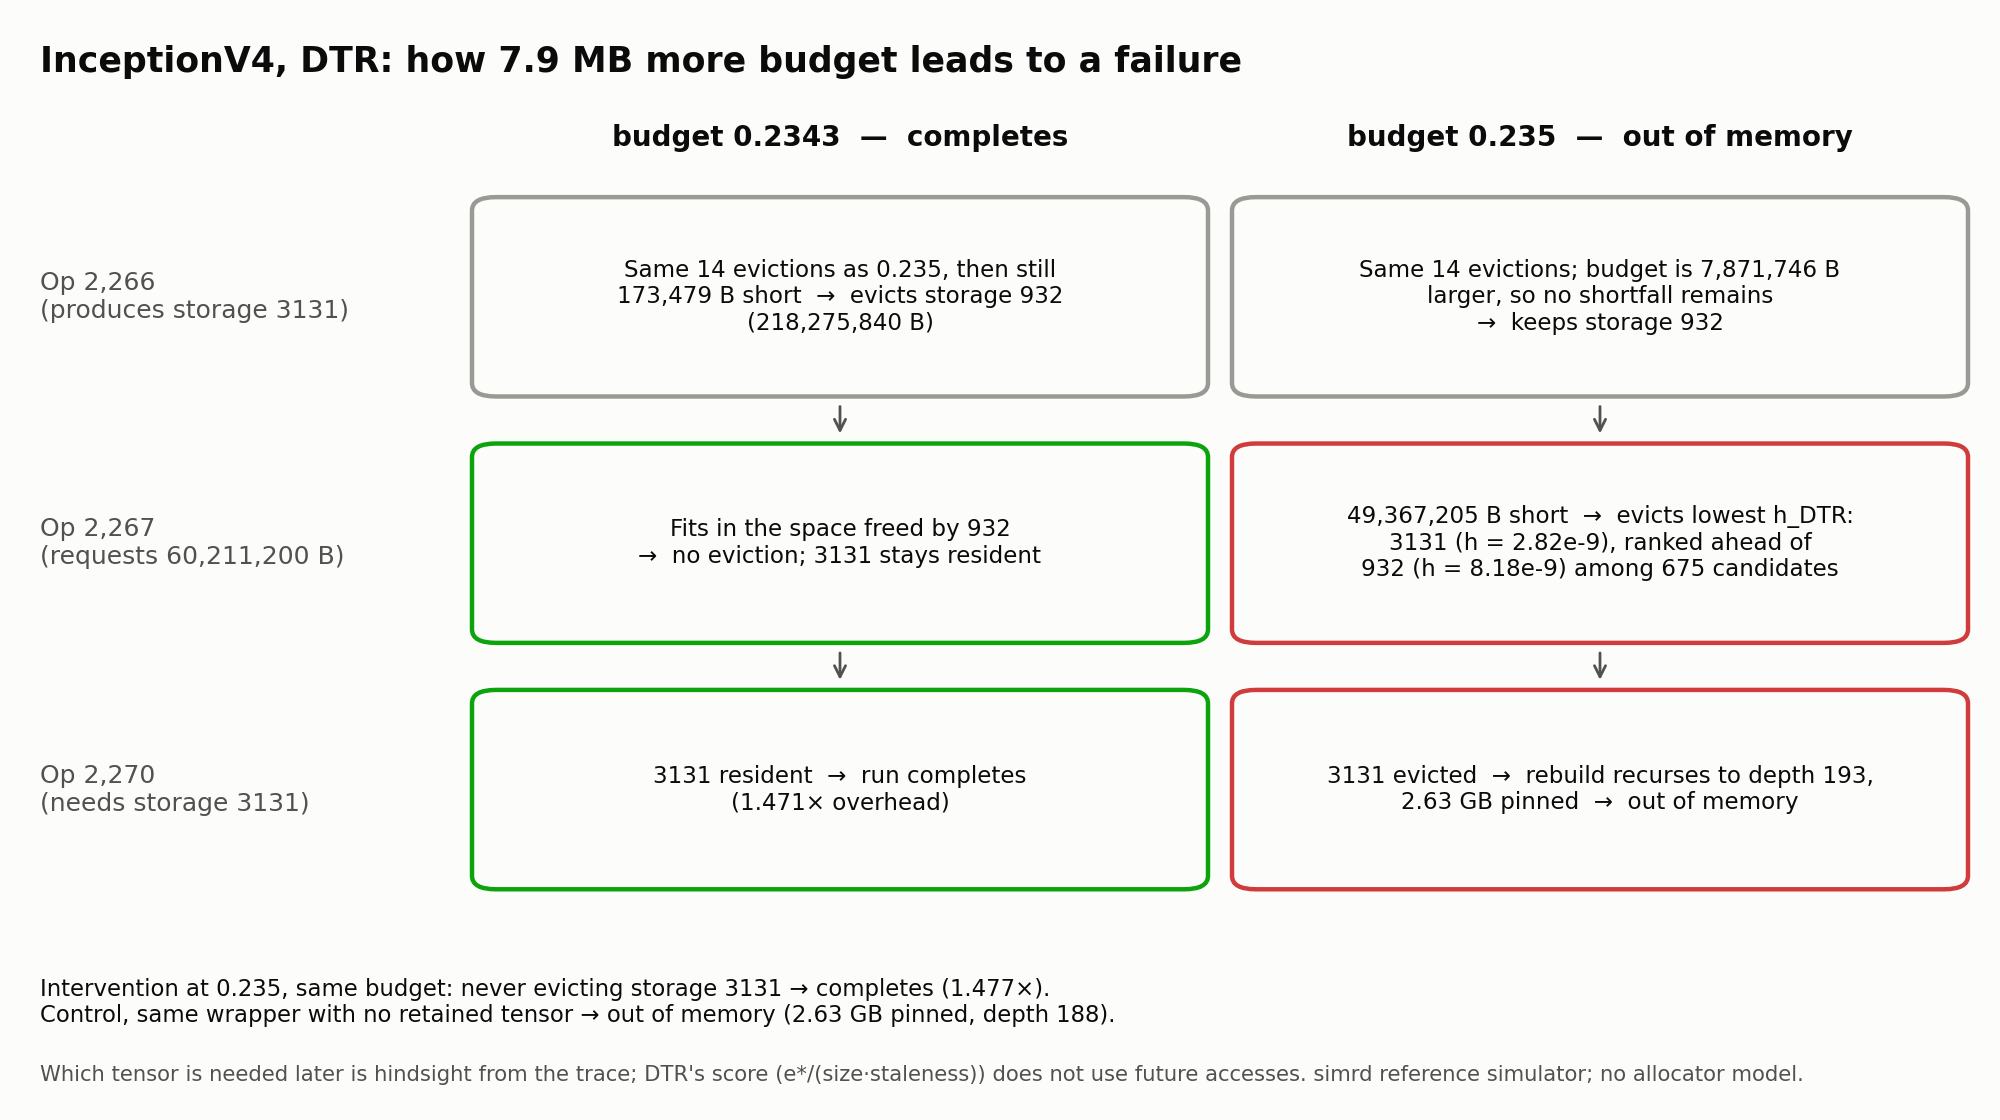
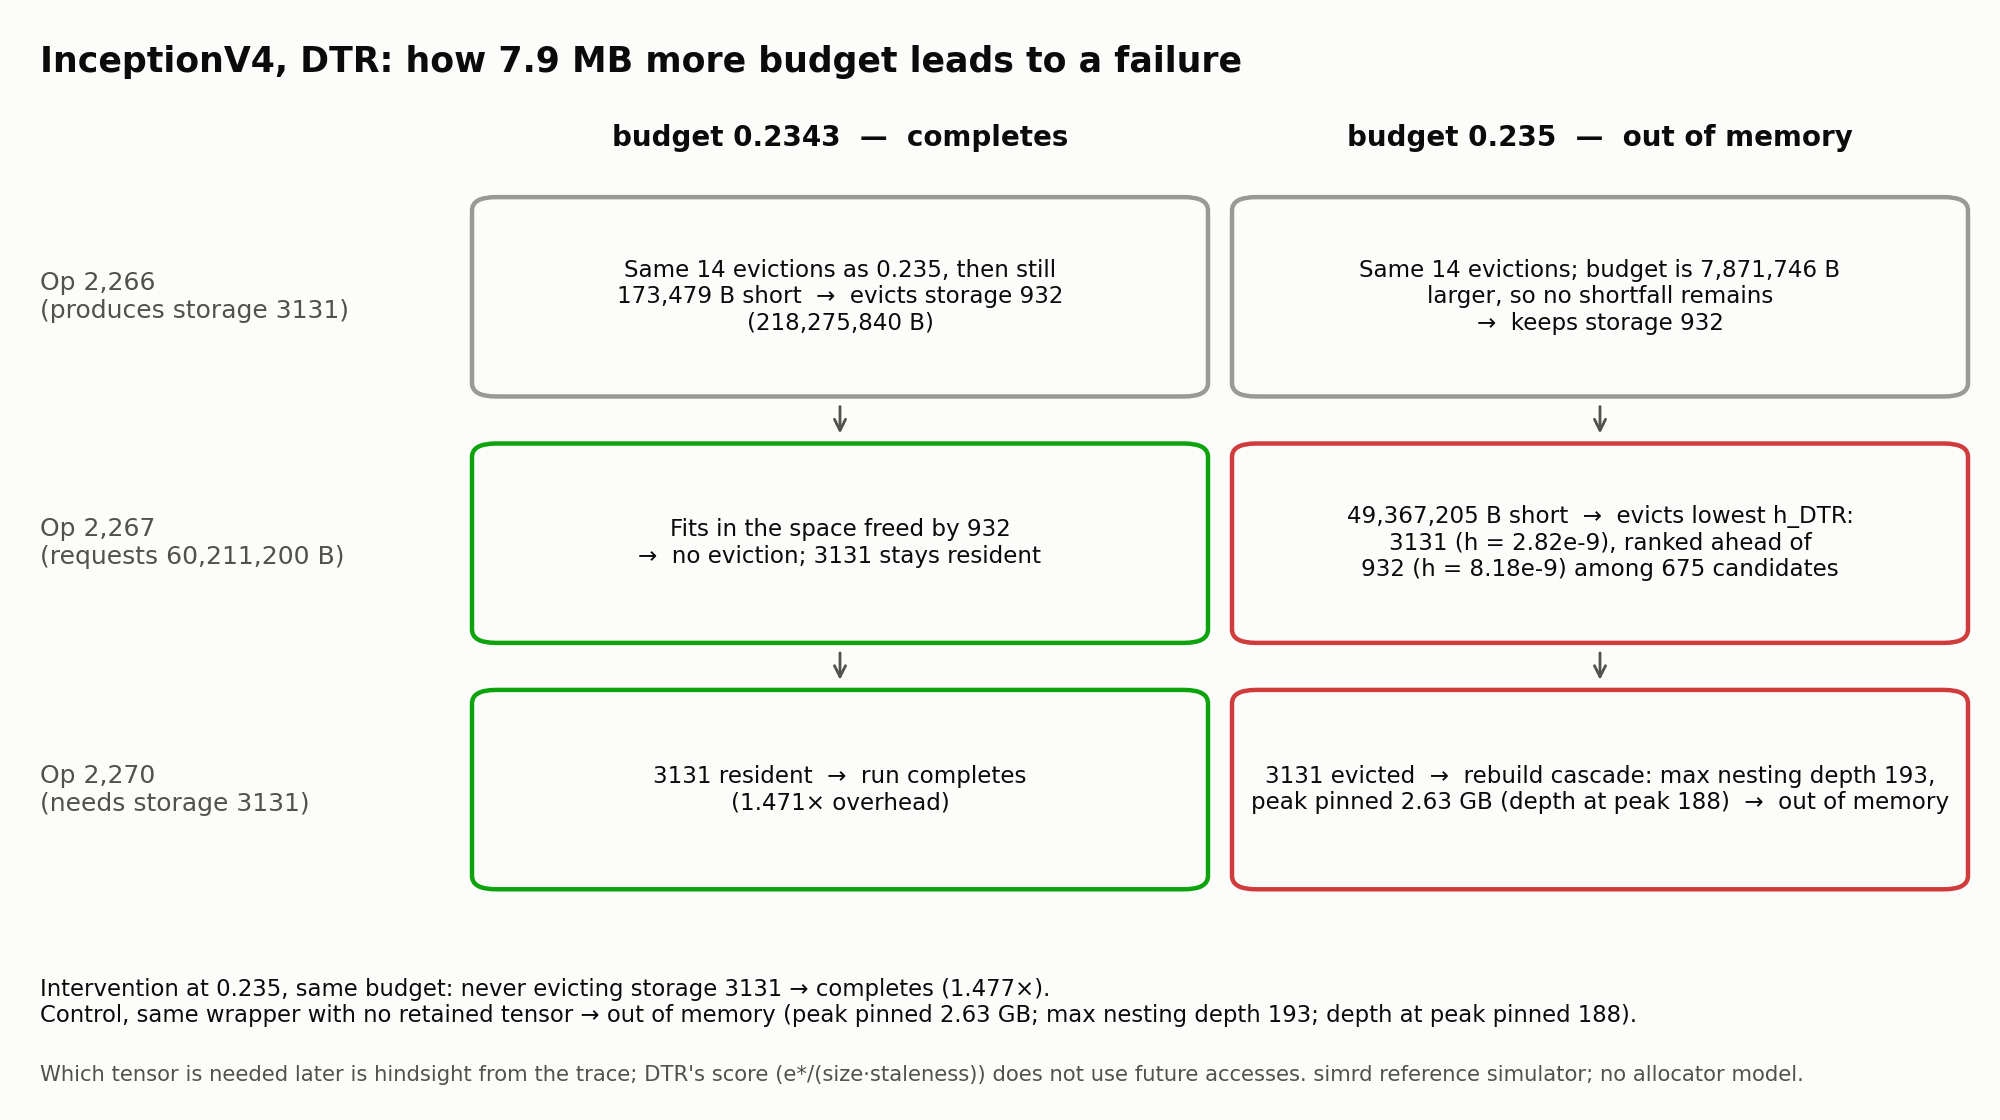
Worked example: four precision edits (causal wording, depth labels, measured counts, 8 MiB footnote); Methods draft
Claude-Session: https://claude.ai/code/session_01JdWLBYNLdwDqfgoTaPBem6

Changed region(s): [[0.62, 0.6875, 0.961, 0.7188], [0.403, 0.875, 0.558, 0.9375], [0.775, 0.875, 0.806, 0.9062]]

diff --git a/figures/make_mechanism_figure.py b/figures/make_mechanism_figure.py
@@ -18,7 +18,7 @@ rows = [
      ('49,367,205 B short  →  evicts lowest h_DTR:\n3131 (h = 2.82e-9), ranked ahead of\n932 (h = 8.18e-9) among 675 candidates', CRIT)),
     ('Op 2,270\n(needs storage 3131)',
      ('3131 resident  →  run completes\n(1.471× overhead)', GOOD),
-     ('3131 evicted  →  rebuild recurses to depth 193,\n2.63 GB pinned  →  out of memory', CRIT)),
+     ('3131 evicted  →  rebuild cascade: max nesting depth 193,\npeak pinned 2.63 GB (depth at peak 188)  →  out of memory', CRIT)),
 ]
 
 fig = plt.figure(figsize=(10, 5.6), dpi=200, facecolor=SURF)
@@ -41,7 +41,7 @@ for i, (label, left, right) in enumerate(rows):
             ax.annotate('', (x + w / 2, y - gap + 0.8), (x + w / 2, y - 0.8),
                         arrowprops=dict(arrowstyle='->', color=INK2, lw=1))
 ax.text(2, 10.5, 'Intervention at 0.235, same budget: never evicting storage 3131 → completes (1.477×).\n'
-        'Control, same wrapper with no retained tensor → out of memory (2.63 GB pinned, depth 188).',
+        'Control, same wrapper with no retained tensor → out of memory (peak pinned 2.63 GB; max nesting depth 193; depth at peak pinned 188).',
         fontsize=8.2, color=INK, va='center')
 ax.text(2, 3.5, 'Which tensor is needed later is hindsight from the trace; DTR\'s score (e*/(size·staleness)) '
         'does not use future accesses. simrd reference simulator; no allocator model.',

diff --git a/paper/methods.md b/paper/methods.md
@@ -1,0 +1,90 @@
+# 3. Method
+
+*Draft, 2026-09-28. Details and the dated deviation log are in PROTOCOL.md; every execution
+is listed in results/EVIDENCE_runs.csv.*
+
+## 3.1 Simulator, traces and budgets
+All experiments use DTR's reference simulator, simrd (commit eff53cc4804cc7d6246a6e5086861ce2b846f62b),
+with its `RuntimeV2EagerOptimized` runtime and the public operator traces released with DTR.
+simrd models tensor sizes, operator compute costs, eviction and rematerialization; it has no
+allocator or fragmentation model, so results concern the eviction policy as simulated, not a
+GPU runtime.
+
+We use ResNet-32 as a development trace (all exploratory tuning happened on it) and six
+traces as confirmatory: DenseNet, InceptionV4, Transformer, U-Net, TreeLSTM and an unrolled
+GAN. An LSTM trace is reported separately. A budget is a fraction r of the trace's
+unconstrained peak memory, budget = ⌊r · peak⌋ bytes, where peak is measured by running the
+trace with no memory limit; this is the same form as simrd's own evaluation scripts.
+
+## 3.2 Policies
+DTR evicts the storage with the lowest score h = e* / (size · staleness), where e* is the
+compute of the storage and its evicted neighbourhood. We compare it with two variants fixed
+on the development trace before any confirmatory run: *NbhdPenalty*, which multiplies h by
+(1 + b · |evicted neighbourhood|) with b = 0.25, and *TwoPhase*, which keeps candidates large
+enough to cover the current shortfall and ranks them by cost over staleness. Three baselines
+were added before they ran, after the first 43 Stage A points (all DenseNet) were seen: DTR's h_e* variant, a
+Coop-inspired cost/staleness score, and a T-Control-inspired policy that locks tensors of
+high betweenness centrality.
+
+## 3.3 Instrumentation and checks against it
+Our runtime subclasses simrd's runtime without changing any decision. It records, at every
+allocation check, the *pinned* bytes (resident bytes not in the evictable pool) and the
+rematerialization nesting depth. We report two depth measures and never merge them: *depth at
+peak pinned memory* (the nesting depth when pinned bytes peaked) and *maximum nesting depth*
+(the deepest nesting anywhere in the run). Two checks guard against instrumentation effects:
+the instrumented runtime reproduces the numbers of our earlier, lighter runtime exactly at
+every checked point, and key points
+are rerun with unmodified simrd (runtime and DTR heuristic straight from the simrd commit,
+no code of ours on the simulation path).
+
+## 3.4 Outcomes
+Each run ends in one of four states: *ok*; *OOM*, when an allocation cannot be satisfied
+after the evictable pool is empty; *thrashed*, when rematerialization compute exceeds 60× the
+model's compute; or *timeout*, when a run exceeds 20 minutes of wall time. Timeouts are
+unresolved and are counted neither as successes nor as failures. Every point runs in its own
+process. simrd is deterministic; we test this with repeats instead of assuming it.
+
+## 3.5 Protocol
+The sweep was fixed in writing before its results existed, and changed only through dated
+amendments (PROTOCOL.md).
+- **Stage A:** every trace and policy on a 0.01 grid from 0.05 to 0.60; three repeats at a
+  random 10% of budgets.
+- **Stage C:** seeded interior samples inside every 0.01 interval (two per interval below
+  0.30, one above). Added before any Stage A result existed on a trace other than DenseNet
+  or below budget 0.19, because a grid misses a failure region lying wholly inside one
+  interval.
+- **Stage B:** 0.001 refinement of every interval where adjacent points change status or
+  overhead by more than 25%, or where a Stage C point disagrees with both neighbours.
+- **Stages D and E:** confirmation of InceptionV4 points. Specified before they ran, after the
+  earlier stages had shown the region: three repeats of DTR plus one run of unmodified simrd
+  per point, and a claim rule that a region counts as confirmed only if every completed
+  repeat agrees and unmodified simrd gives the same outcome.
+
+Runs executed on a 2-vCPU cloud container, natively on a Windows laptop, and (11 early
+Stage A points) in a Linux VM on the same laptop. Interrupted runs
+(host sleep, a killed process, or a mistaken second launcher) are kept in the evidence table
+with their exclusion reason and rerun; they never count as outcomes.
+
+## 3.6 Feasibility holes and what we count
+A *feasibility hole* is a budget at which a policy fails (OOM or thrashed) although both a
+smaller and a larger budget complete. Because budgets are sampled, we report three separate
+quantities: sampled failing budgets; distinct failure regions supported by samples; and edge
+brackets [last completing sample, first failing sample], with unresolved points marked. We do
+not report hole widths, and a run of failing samples does not establish that every budget
+between them fails.
+
+## 3.7 Hypotheses and claim rules
+For each confirmatory trace, a policy is compared with DTR on H1, no more failed budgets above
+its first success; H2, matched-budget geometric-mean overhead ratio ≤ 1.05; and H3, a stable
+floor no higher than DTR's. A policy "generalises" only if H1 and H2 hold on at least five of
+six traces.
+
+## 3.8 Exploratory analyses
+The divergence trace, the per-decision probe and the retention intervention (Section 5) were
+specified before execution, after earlier results were observed, and are reported as
+exploratory. The divergence trace logs every eviction and rematerialization in two runs. The
+probe records, for every eviction decision in a window of operators, the request, shortfall,
+candidates and score components. The retention intervention never offers one named storage to
+the policy as an eviction candidate; its bytes stay resident under the same budget, and a
+control run with the same code path and no retained storage checks that the wrapper changes
+nothing.

diff --git a/paper/worked_example.md b/paper/worked_example.md
@@ -16,8 +16,9 @@ after earlier results were observed, and are exploratory.
 choose different victims at eviction 13 (operator 945 of about 2,300). From there to operator
 2,269 they do the same amount of work: 1,657 evictions each, and 335 versus 334
 rematerializations. Per-operator pinned memory and recursion depth are identical over that
-span. The failure is therefore not a slow accumulation; all of the failing run's extra work
-(7,342 evictions and 6,143 rematerializations) happens inside a single operator, 2,270.
+span. Their histories already differ, but before operator 2,270 they have equal eviction
+counts and nearly equal rematerialization counts. The failing run's extra work (7,342
+evictions and 6,143 rematerializations) happens inside a single operator, 2,270.
 
 **Allocation threshold (operator 2,266).** Operator 2,266 produces storage 3131
 (247,775,232 B). To make room, both runs make the same 14 evictions in the same order. The
@@ -32,9 +33,8 @@ smaller budget had evicted one operator earlier. DTR evicts 3131.
 
 **Failure cascade (operator 2,270).** Operator 2,270 reads storage 3131. At 0.2343 it is
 resident and the run completes. At 0.235 it must be rebuilt, which requires rebuilding its
-own evicted ancestors in turn: the rematerialization chain reaches a nesting depth of 193,
-pinned memory reaches 2.63 GB (depth 188 at that peak), and the evictable pool empties with
-a request of 8,388,608 B still unmet. That storage 3131 is needed three operators after its
+own evicted ancestors in turn: maximum nesting depth reaches 193, and pinned memory peaks at
+2.63 GB (depth at peak pinned memory: 188) before the evictable pool empties.¹ That storage 3131 is needed three operators after its
 eviction is hindsight from the trace; DTR's score does not use future accesses and could not
 have known it.
 
@@ -42,8 +42,11 @@ have known it.
 eviction candidate. Its bytes remain resident and count against the same budget; no limit is
 relaxed. The run completes with 1.477× overhead, 0.99 GB peak pinned memory and a maximum
 nesting depth of 30, matching the successful smaller budget. A control using the same code
-path with no retained tensor reproduces the original failure exactly (2.63 GB, depth 188).
-This supports storage 3131's eviction as a necessary step in this failure. It is not a fix:
+path with no retained tensor reproduces the original failure exactly (2.63 GB peak pinned;
+maximum nesting depth 193; depth at peak pinned memory 188). Preventing storage 3131's
+eviction prevents OOM in this execution under the same budget, supporting its causal
+involvement; retaining it also changes the rest of the execution, so this is not a claim
+that nothing else matters. It is not a fix:
 retaining a tensor requires knowing in advance which one will be needed.
 
 **Summary.** In this execution, the extra 7.9 MB avoids one eviction at operator 2,266. That
@@ -54,11 +57,16 @@ did not give the same execution more room; it produced a different execution.
 **Supporting case: ResNet-32 (development trace).** The failing operator at budget 0.104
 (operator 471) needs storage 612, which the 0.104 run evicted at operator 466 and the 0.101 run
 never evicted. Retaining 612 at 0.104 turns the failure into a completion (2.24×), and the
-control reproduces the failure (0.89 GB pinned, depth 118 at that peak; maximum nesting 124).
+control reproduces the failure (0.89 GB peak pinned; depth at peak pinned memory 118;
+maximum nesting depth 124).
 The larger budget likewise carries more data into operator 466 (802 MB versus 667 MB).
 However, our probe reports unchanged memory-in-use across consecutive evictions within
 operator 466, which we have not yet explained; we therefore report ResNet-32 only as a second
 instance of the retention result, not as a byte-level account.
+
+¹ During the cascade, an allocation of 8,388,608 bytes (8 MiB) could not be satisfied; the
+run was 130,137 bytes over budget at that point. This is a different request from operator
+2,267's 60,211,200 bytes.
 
 *Figure 5 (figures/fig_mechanism_inception.pdf): the two budgets side by side at operators
 2,266, 2,267 and 2,270, with the intervention and control.*
